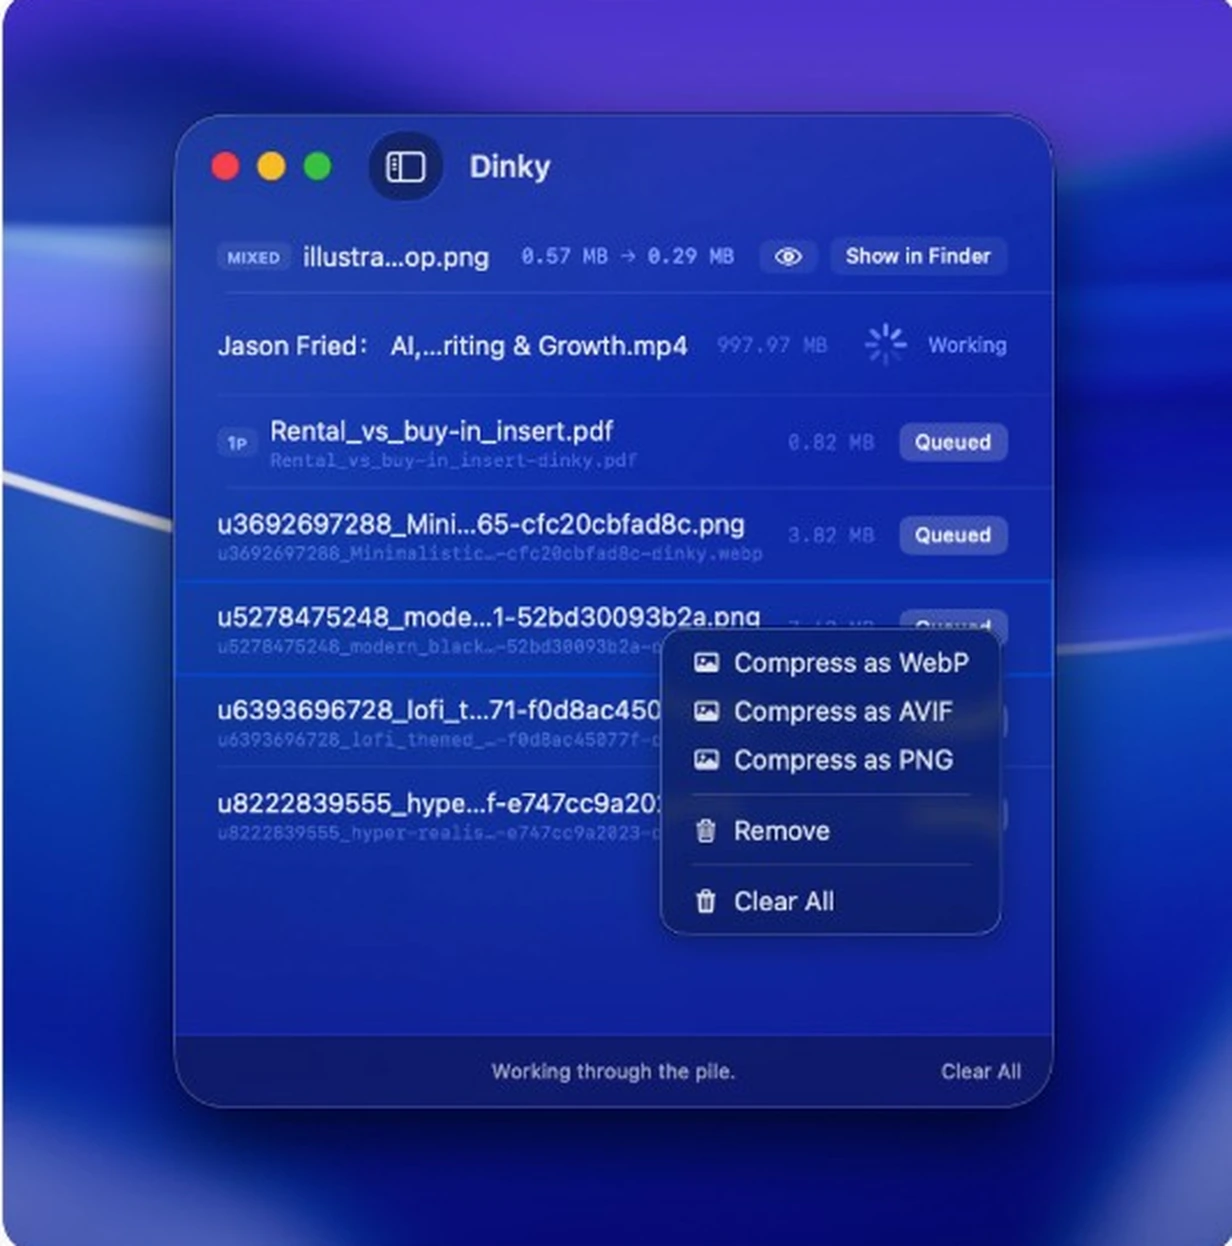
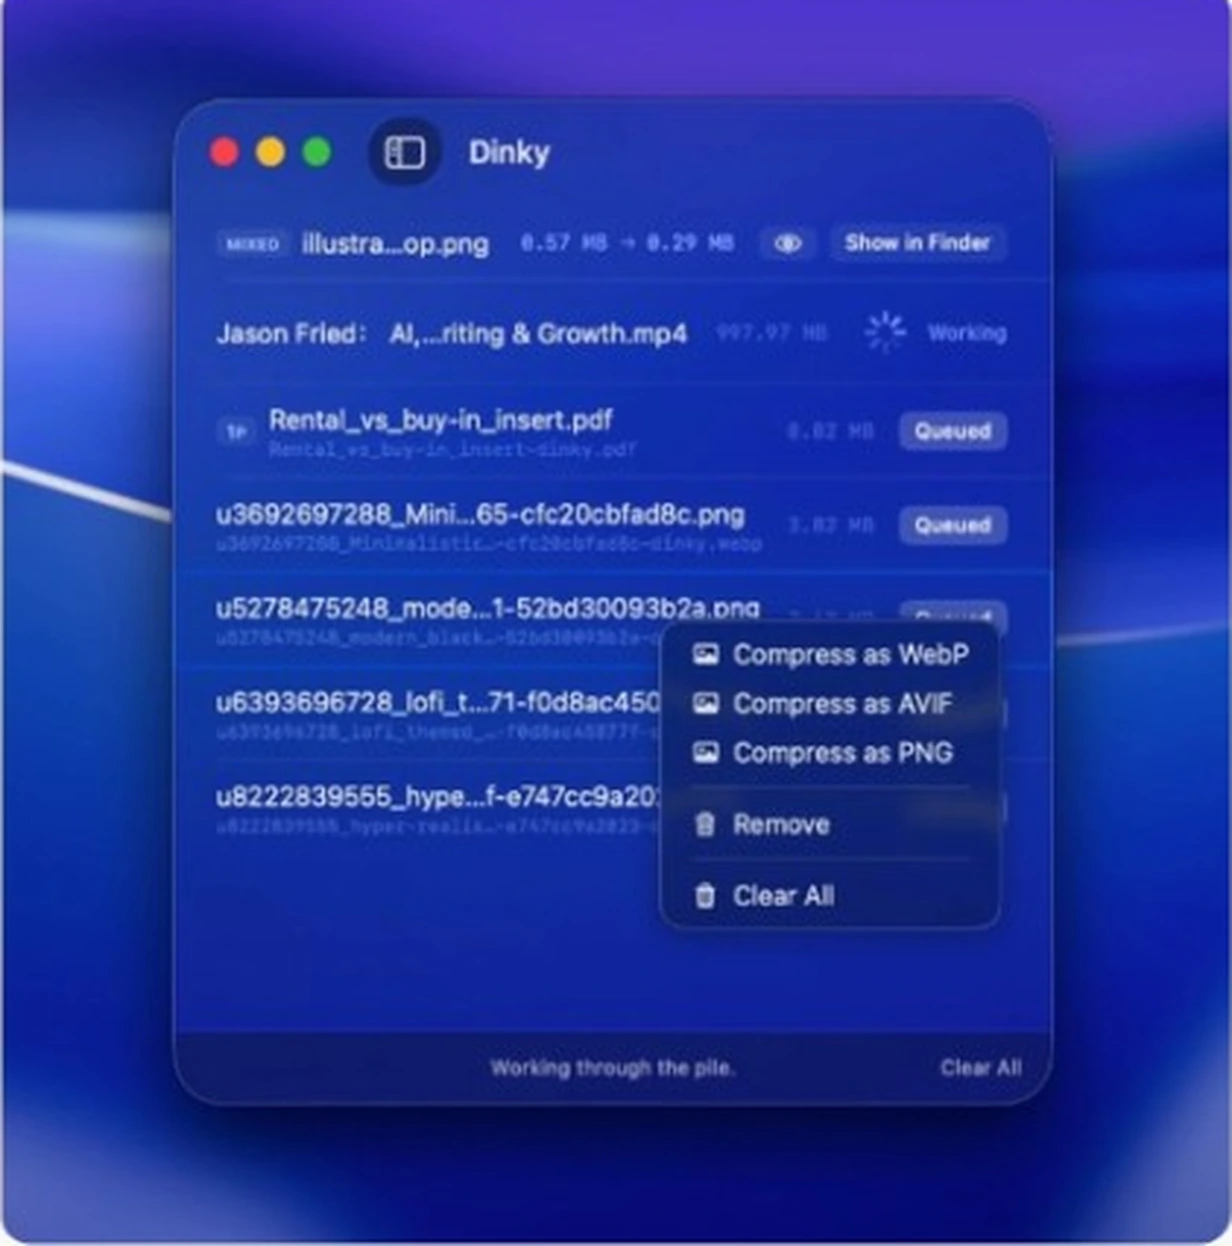
Fix batch screenshot cache bust and regenerate from latest asset
Made-with: Cursor

diff --git a/site/index.html b/site/index.html
@@ -1464,7 +1464,7 @@
 
     <!-- Row D: Results list with right-click format menu (image left) -->
     <div class="ss-row">
-      <img src="screenshots/screenshot-results.webp" alt="Dinky results list with batch processing and right-click format menu" />
+      <img src="screenshots/screenshot-results.webp?v=20260420" alt="Dinky results list with batch processing and right-click format menu" />
       <div class="ss-card">
         <div class="ss-card-features">
           <div class="ss-card-feature">
